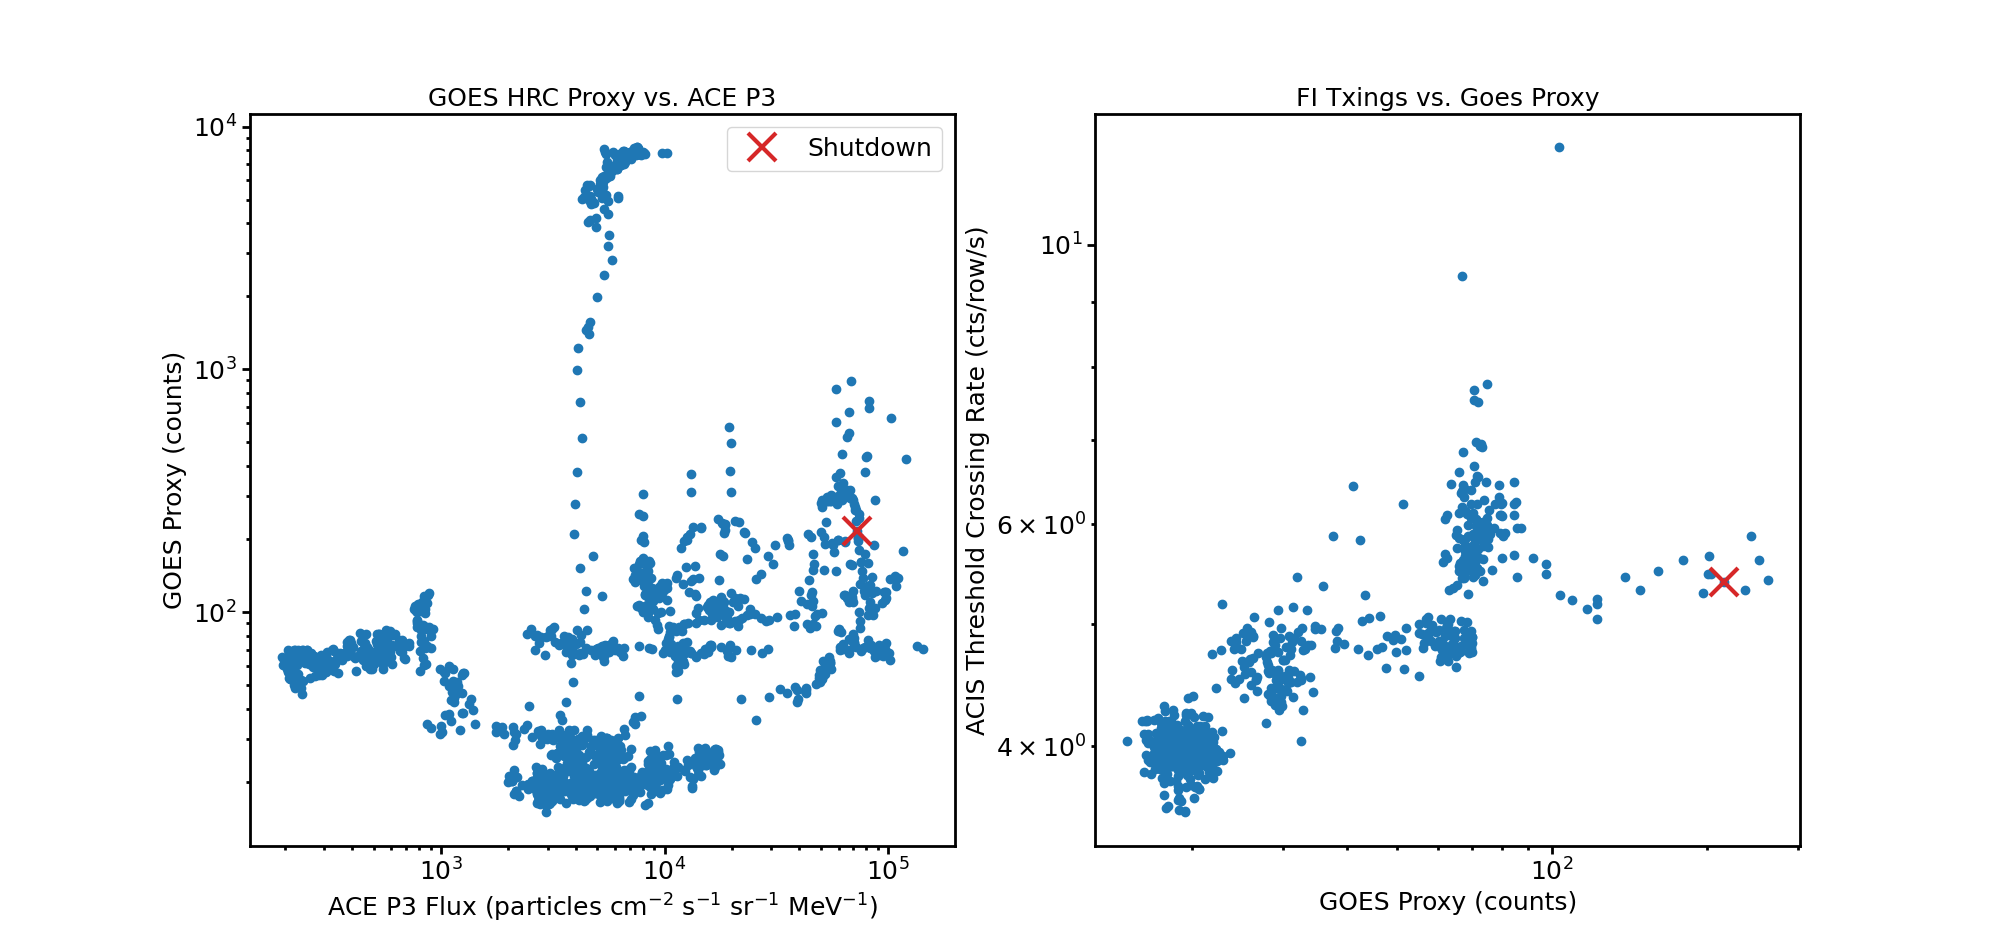
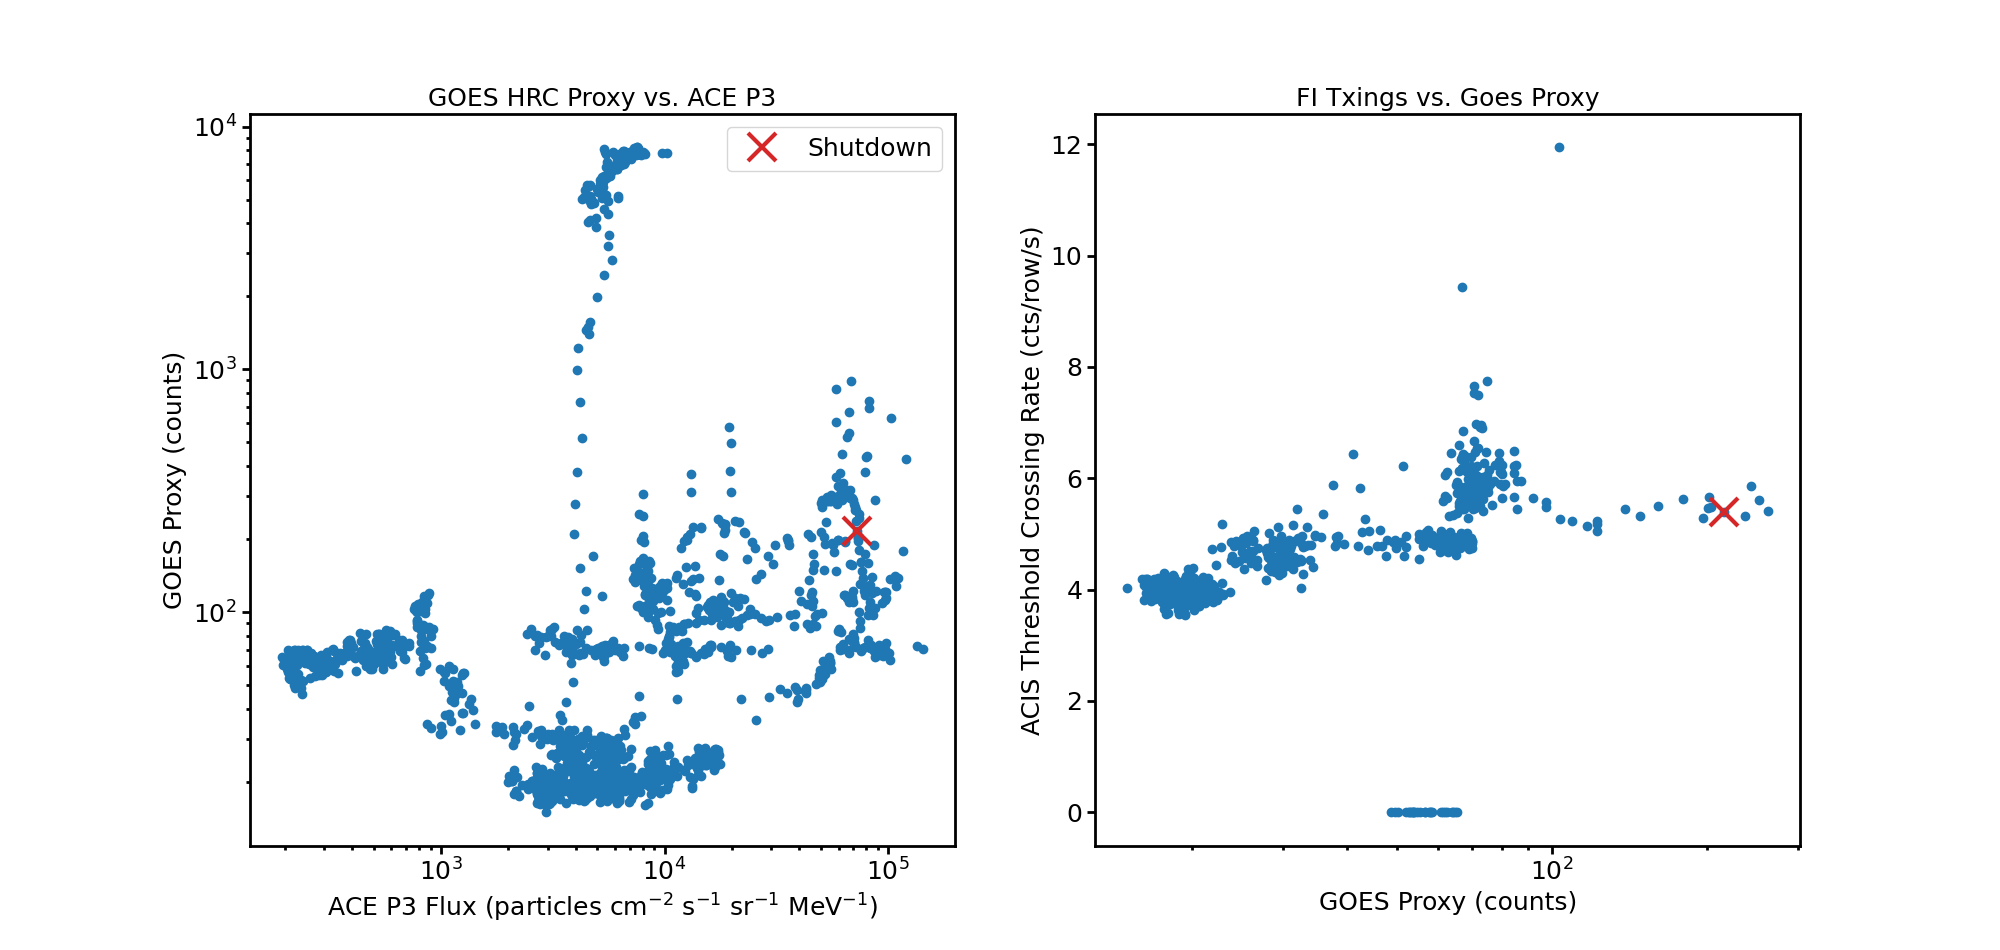
Major update

diff --git a/storms/solar_wind.py b/storms/solar_wind.py
@@ -248,7 +248,7 @@ class SolarWind:
         ax.set_ylabel("ACIS Threshold Crossing Rate (cts/row/s)", fontsize=18)
         ax.tick_params(which="major", width=2, length=6)
         ax.tick_params(which="minor", width=2, length=3)
-        fontProperties = font_manager.FontProperties(size=18)                                                                                                                                                   
+        fontProperties = font_manager.FontProperties(size=18)
         for label in ax.get_xticklabels():
             label.set_fontproperties(fontProperties)
         for label in ax.get_yticklabels():
@@ -275,6 +275,7 @@ class SolarWind:
         dp3.set_ylabel("HRC Shield Rate & Proxy\n(Counts)", fontsize=16)
         dp3.ax.tick_params(axis='x', direction='inout', which='major', length=8, top=True, bottom=True)
         dp3.ax.tick_params(axis='x', direction='inout', which='minor', length=4, top=True, bottom=True)
+        ax3.set_xlim(*xlim)
         fig.tight_layout()
         return fig
 
@@ -301,6 +302,10 @@ class SolarWind:
         fig, (ax1, ax2) = plt.subplots(figsize=(20, 9.5), ncols=2)
         ax1.scatter(self["p3"], self["hrc_shield"])
         ax1.set_title("GOES HRC Proxy vs. ACE P3", fontsize=18)
+        ax1.set_xlabel("ACE P3 Flux (particles cm$^{-2}$ s$^{-1}$ sr$^{-1}$ MeV$^{-1}$)",
+                      fontsize=18)
+        ax1.set_xscale('log')
+        ax1.set_yscale('log')
         fi_rate = np.empty(self.times.secs.shape)
         fi_rate[:] = np.nan
         for i, times in enumerate(self.txings_data["times"]):
@@ -308,13 +313,11 @@ class SolarWind:
             fi_rate[idxs] = self.txings_data["fi_rate"][i]
         ax2.scatter(self["hrc_shield"], fi_rate)
         ax2.set_title("FI Txings vs. Goes Proxy", fontsize=18)
-        ax1.set_yscale("log")
-        ax1.set_xlabel("ACE P3 Flux (particles cm$^{-2}$ s$^{-1}$ sr$^{-1}$ MeV$^{-1}$)",
-                      fontsize=18)
         ax2.set_xlabel("GOES Proxy (counts)", fontsize=18)
+        ax2.set_xscale('log')
+        if np.all(np.nan_to_num(fi_rate) > 0):
+            ax2.set_yscale('log')
         for ax in [ax1, ax2]:
-            ax.set_xscale('log')
-            ax.set_yscale('log')
             ax.tick_params(which='major', width=2, length=6, labelsize=18)
             ax.tick_params(which='minor', width=2, length=3, labelsize=18)
             for axis in ['top', 'bottom', 'left', 'right']:

diff --git a/gen_storm_page.py b/gen_storm_page.py
@@ -40,7 +40,7 @@ def main(fn):
         startup = CxoTime(inputs["startup_time"])
         dt = TimeDelta(2.0*u.d)
         begin_time = shutdown-dt
-        end_time = shutdown+dt
+        end_time = startup+dt
         storm_date = shutdown.yday[:8]
     else:
         shutdown = None

diff --git a/doc/source/storm_2021_301/index.rst b/doc/source/storm_2021_301/index.rst
@@ -1,0 +1,38 @@
+.. _2021-301:
+
+2021:301
+--------------
+
+Basic Facts
+===========
+
+* Load on Spacecraft: OCT2621B  
+* Shutdown: YES  
+* Shutdown Trigger: ACIS TXings  
+* Shutdown Time: 2021:301:16:35:00.000  
+* Startup Time: 2021:303:23:30:00.000  
+
+Plots
+=====
+
+Radiation vs. Time
+++++++++++++++++++
+
+.. image:: rad_vs_time.png
+
+Proton Spectra at Selected Times
+++++++++++++++++++++++++++++++++
+
+.. image:: proton_spectra.png
+
+Scatter Plots
++++++++++++++
+
+.. image:: scatter_plots.png
+
+ACE Plots
++++++++++
+
+.. image:: ace_vs_time.png
+
+

diff --git a/doc/source/storm_2020_335/index.rst b/doc/source/storm_2020_335/index.rst
@@ -1,0 +1,35 @@
+.. _2020-335:
+
+2020:335
+--------------
+
+Basic Facts
+===========
+
+* Load on Spacecraft: NOV3020A  
+* Shutdown: NO  
+
+Plots
+=====
+
+Radiation vs. Time
+++++++++++++++++++
+
+.. image:: rad_vs_time.png
+
+Proton Spectra at Selected Times
+++++++++++++++++++++++++++++++++
+
+.. image:: proton_spectra.png
+
+Scatter Plots
++++++++++++++
+
+.. image:: scatter_plots.png
+
+ACE Plots
++++++++++
+
+.. image:: ace_vs_time.png
+
+

diff --git a/doc/source/storm_2022_203/index.rst b/doc/source/storm_2022_203/index.rst
@@ -1,0 +1,35 @@
+.. _2022-203:
+
+2022:203
+--------------
+
+Basic Facts
+===========
+
+* Load on Spacecraft: JUL2522A  
+* Shutdown: NO  
+
+Plots
+=====
+
+Radiation vs. Time
+++++++++++++++++++
+
+.. image:: rad_vs_time.png
+
+Proton Spectra at Selected Times
+++++++++++++++++++++++++++++++++
+
+.. image:: proton_spectra.png
+
+Scatter Plots
++++++++++++++
+
+.. image:: scatter_plots.png
+
+ACE Plots
++++++++++
+
+.. image:: ace_vs_time.png
+
+

diff --git a/doc/source/all.rst b/doc/source/all.rst
@@ -2,8 +2,14 @@ All Storms
 ==========
 
 * :ref:`2015-173`
+
 * :ref:`2017-250`
 * :ref:`2017-254`
+
+* :ref:`2020-335`
+
+* :ref:`2021-301`
+
 * :ref:`2022-087`
 * :ref:`2022-118`
 

diff --git a/doc/source/shutdown.rst b/doc/source/shutdown.rst
@@ -2,6 +2,10 @@ Storms Which Caused Shutdowns
 =============================
 
 * :ref:`2015-173`
+
 * :ref:`2017-250`
 * :ref:`2017-254`
+
+* :ref:`2021-301`
+
 * :ref:`2022-087`

diff --git a/doc/source/not_shutdown.rst b/doc/source/not_shutdown.rst
@@ -1,4 +1,5 @@
 Storms Which Did Not Cause Shutdowns
 ====================================
 
+* :ref:`2020-335`
 * :ref:`2022-118`
